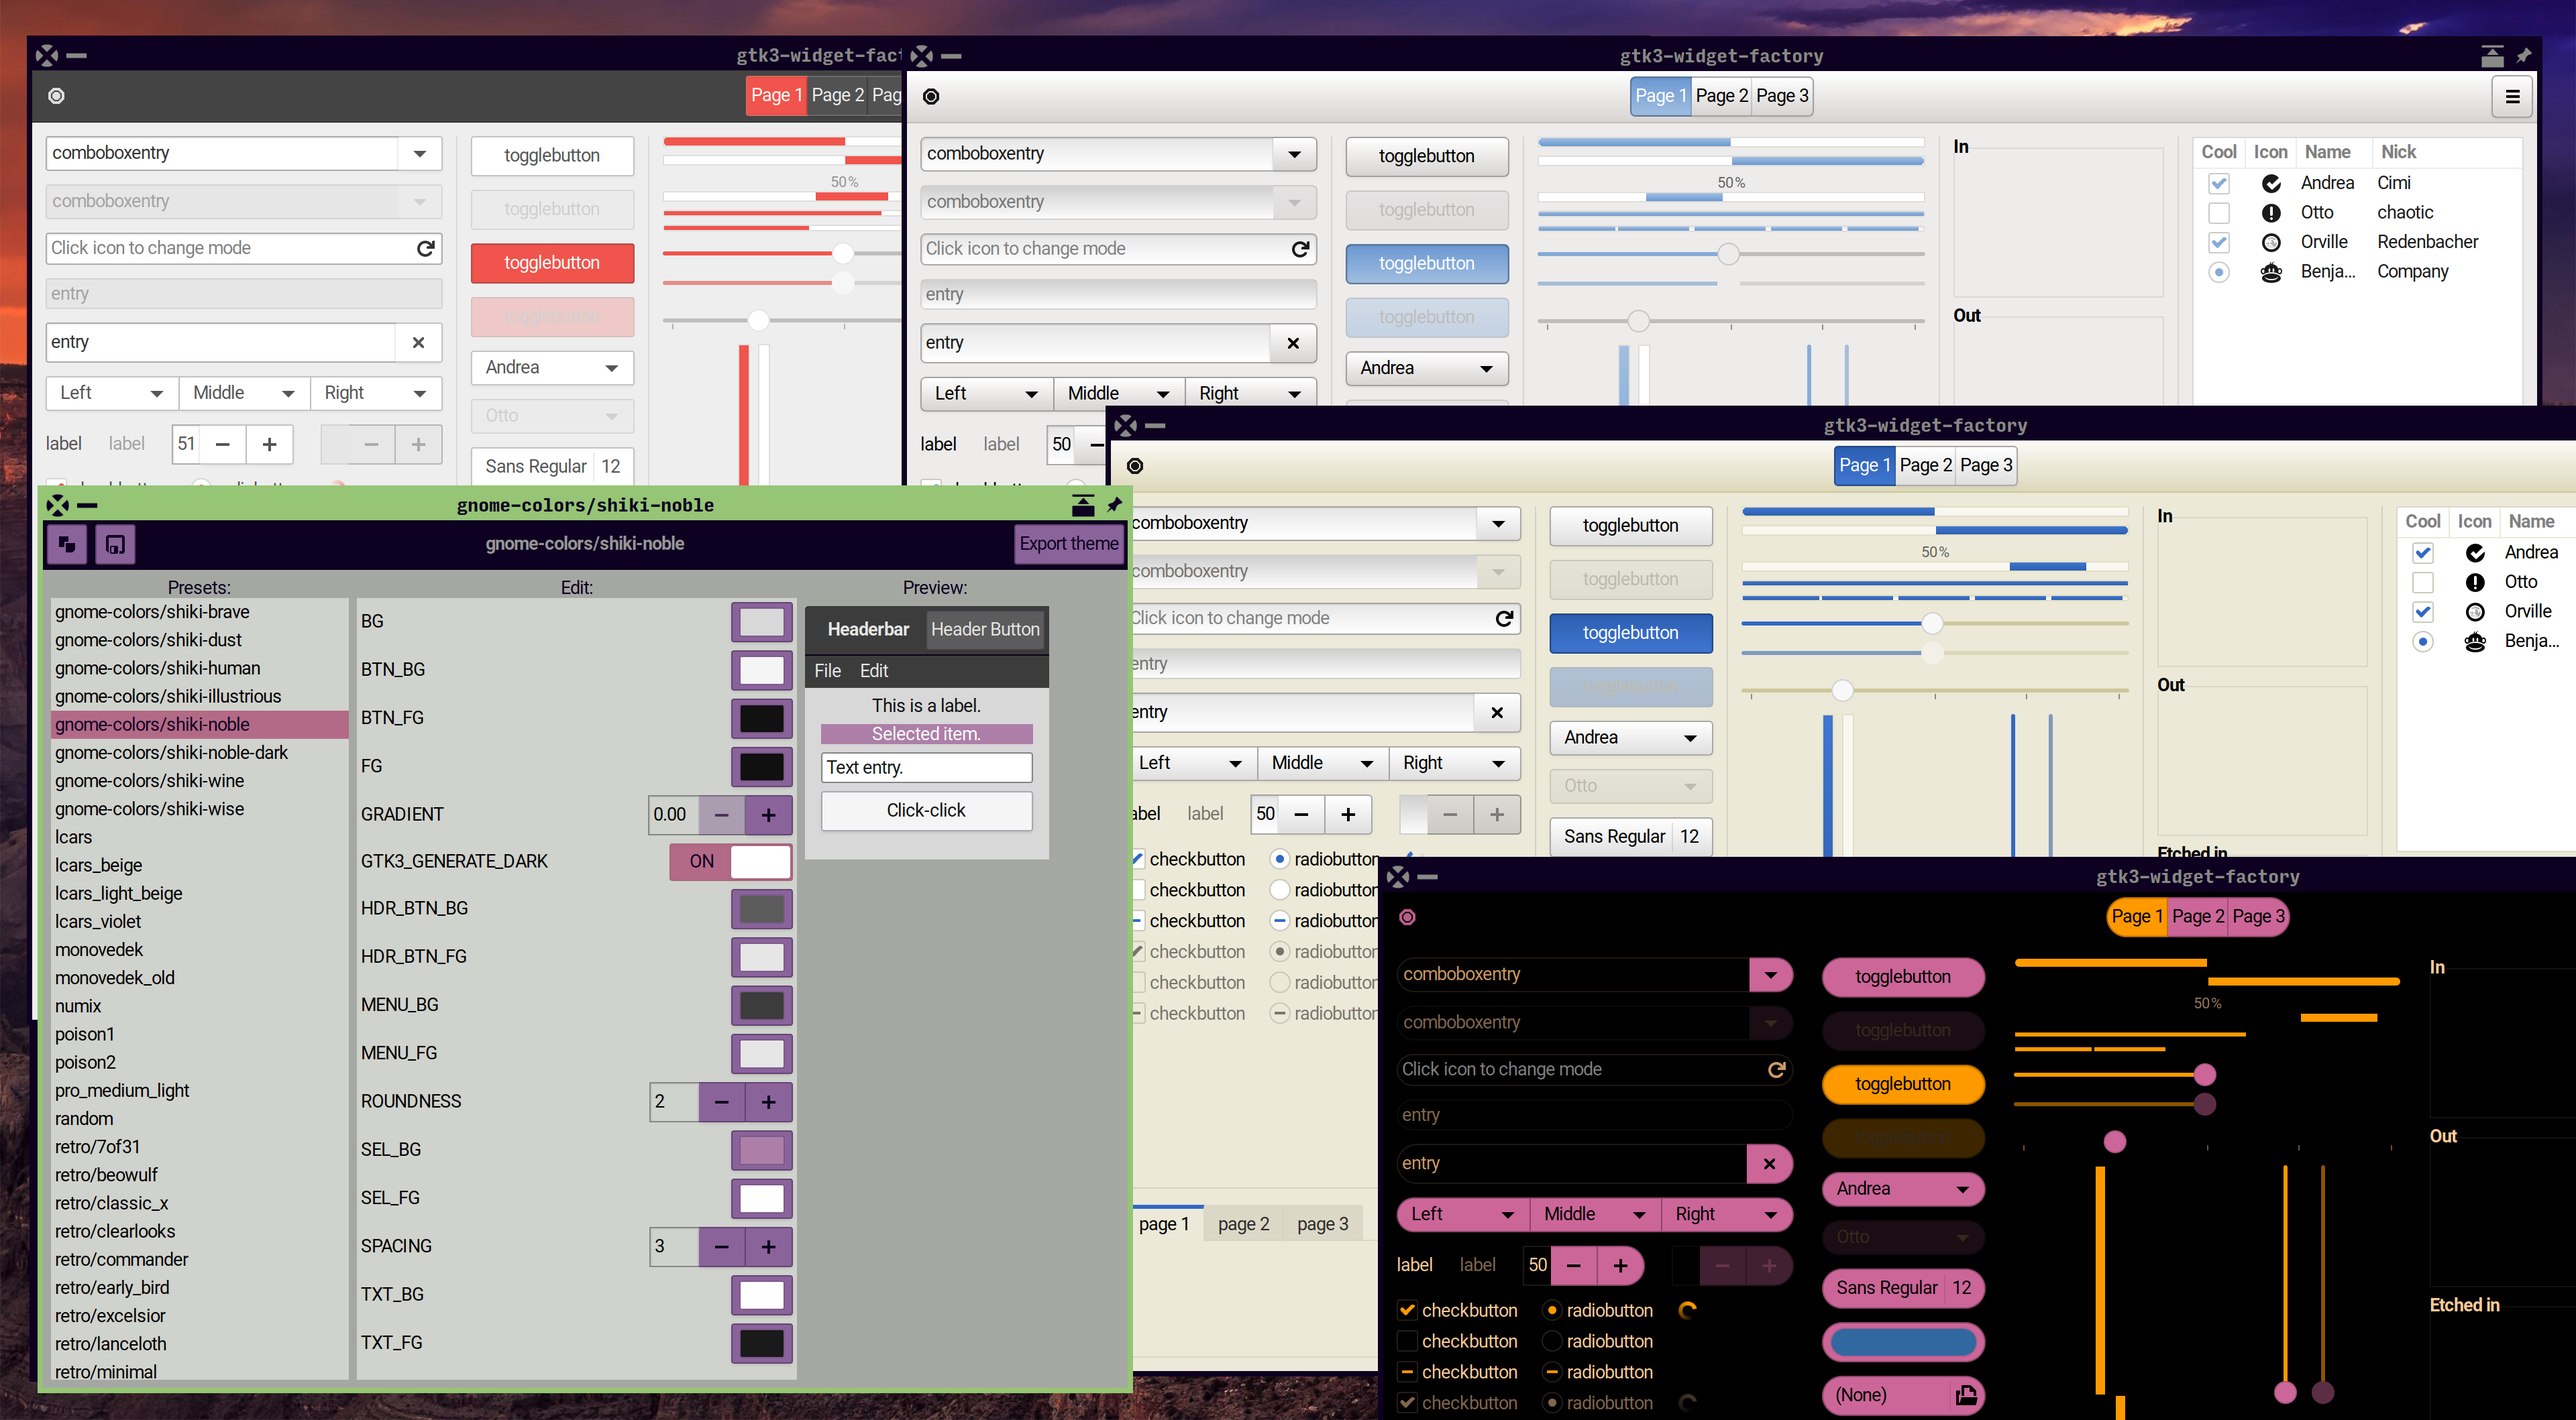
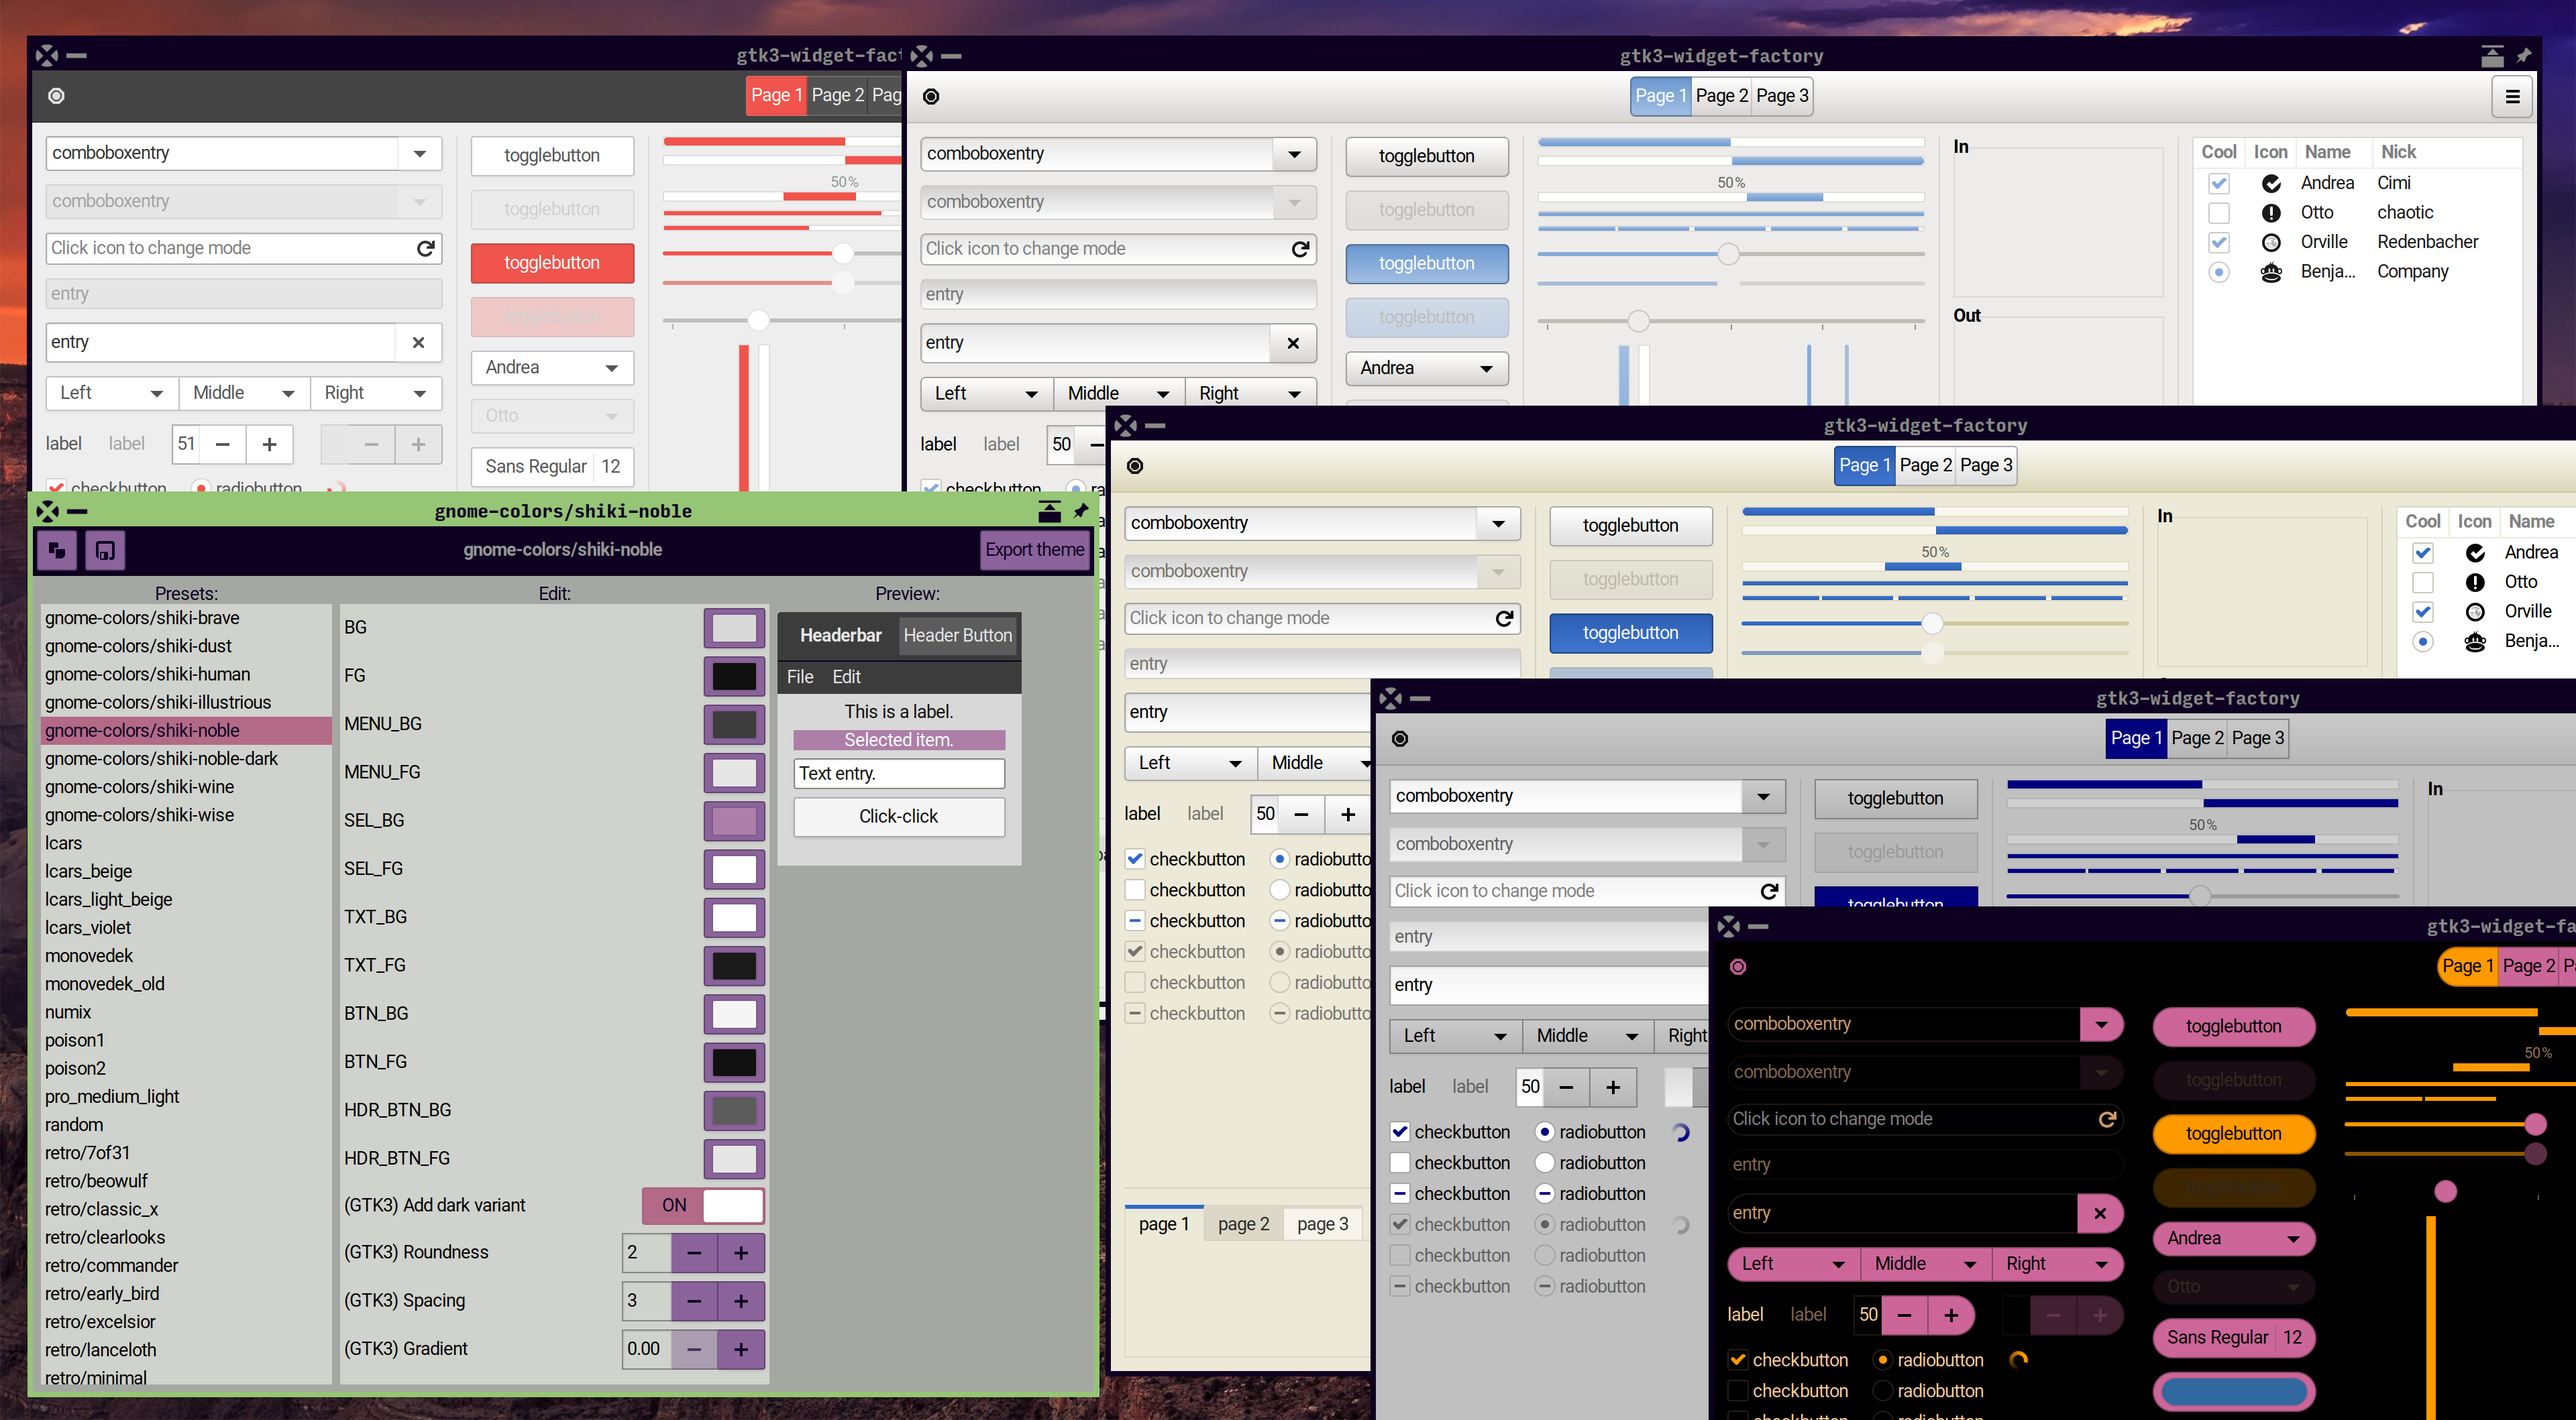
feat(gui): preview for roundness and gradient

diff --git a/gui/colors_list.py b/gui/colors_list.py
@@ -1,5 +1,7 @@
 from gi.repository import Gtk
-from .helpers import convert_theme_color_to_gdk, THEME_KEYS
+from .helpers import (
+    convert_theme_color_to_gdk, THEME_KEYS, convert_gdk_to_theme_color
+)
 
 
 class FloatListBoxRow(Gtk.ListBoxRow):
@@ -8,7 +10,7 @@ class FloatListBoxRow(Gtk.ListBoxRow):
         self.value = spinbutton.get_value()
         self.color_set_callback(self.key, self.value)
 
-    def __init__(self, key, value, color_set_callback):
+    def __init__(self, display_name, key, value, color_set_callback):
         super().__init__()
 
         self.color_set_callback = color_set_callback
@@ -17,10 +19,10 @@ class FloatListBoxRow(Gtk.ListBoxRow):
 
         hbox = Gtk.Box(orientation=Gtk.Orientation.HORIZONTAL, spacing=50)
         self.add(hbox)
-        label = Gtk.Label(key, xalign=0)
+        label = Gtk.Label(display_name, xalign=0)
         hbox.pack_start(label, True, True, 0)
 
-        adjustment = Gtk.Adjustment(value, 0.0, 20.0, 0.1, 10.0, 0)
+        adjustment = Gtk.Adjustment(value, 0.0, 4.0, 0.1, 10.0, 0)
         spinbutton = Gtk.SpinButton()
         spinbutton.set_digits(2)
         spinbutton.set_adjustment(adjustment)
@@ -38,7 +40,7 @@ class IntListBoxRow(Gtk.ListBoxRow):
         self.value = spinbutton.get_value_as_int()
         self.color_set_callback(self.key, self.value)
 
-    def __init__(self, key, value, color_set_callback):
+    def __init__(self, display_name, key, value, color_set_callback):
         super().__init__()
 
         self.color_set_callback = color_set_callback
@@ -47,7 +49,7 @@ class IntListBoxRow(Gtk.ListBoxRow):
 
         hbox = Gtk.Box(orientation=Gtk.Orientation.HORIZONTAL, spacing=50)
         self.add(hbox)
-        label = Gtk.Label(key, xalign=0)
+        label = Gtk.Label(display_name, xalign=0)
         hbox.pack_start(label, True, True, 0)
 
         adjustment = Gtk.Adjustment(value, 0, 20, 1, 10, 0)
@@ -67,7 +69,7 @@ class BoolListBoxRow(Gtk.ListBoxRow):
         self.value = switch.get_active()
         self.color_set_callback(self.key, self.value)
 
-    def __init__(self, key, value, color_set_callback):
+    def __init__(self, display_name, key, value, color_set_callback):
         super().__init__()
 
         self.color_set_callback = color_set_callback
@@ -76,7 +78,7 @@ class BoolListBoxRow(Gtk.ListBoxRow):
 
         hbox = Gtk.Box(orientation=Gtk.Orientation.HORIZONTAL, spacing=50)
         self.add(hbox)
-        label = Gtk.Label(key, xalign=0)
+        label = Gtk.Label(display_name, xalign=0)
         hbox.pack_start(label, True, True, 0)
 
         switch = Gtk.Switch()
@@ -88,14 +90,10 @@ class BoolListBoxRow(Gtk.ListBoxRow):
 class ColorListBoxRow(Gtk.ListBoxRow):
 
     def on_color_set(self, widget):
-        c = widget.get_rgba()
-        self.value = "".join([
-            "{0:02x}".format(int(n * 255))
-            for n in (c.red, c.green, c.blue)
-        ])
+        self.value = convert_gdk_to_theme_color(widget.get_rgba())
         self.color_set_callback(self.key, self.value)
 
-    def __init__(self, key, value, color_set_callback):
+    def __init__(self, display_name, key, value, color_set_callback):
         super().__init__()
 
         self.color_set_callback = color_set_callback
@@ -104,7 +102,7 @@ class ColorListBoxRow(Gtk.ListBoxRow):
 
         hbox = Gtk.Box(orientation=Gtk.Orientation.HORIZONTAL, spacing=50)
         self.add(hbox)
-        label = Gtk.Label(key, xalign=0)
+        label = Gtk.Label(display_name, xalign=0)
         hbox.pack_start(label, True, True, 0)
 
         color_button = Gtk.ColorButton.new_with_rgba(
@@ -132,22 +130,23 @@ class ThemeColorsList(Gtk.Box):
         else:
             for key_obj in THEME_KEYS:
                 key = key_obj['key']
+                display_name = key_obj.get('display_name', key)
                 row = None
                 if key_obj['type'] == 'color':
                     row = ColorListBoxRow(
-                        key, self.theme[key], self.color_edited
+                        display_name, key, self.theme[key], self.color_edited
                     )
                 elif key_obj['type'] == 'bool':
                     row = BoolListBoxRow(
-                        key, self.theme[key], self.color_edited
+                        display_name, key, self.theme[key], self.color_edited
                     )
                 elif key_obj['type'] == 'int':
                     row = IntListBoxRow(
-                        key, self.theme[key], self.color_edited
+                        display_name, key, self.theme[key], self.color_edited
                     )
                 elif key_obj['type'] == 'float':
                     row = FloatListBoxRow(
-                        key, self.theme[key], self.color_edited
+                        display_name, key, self.theme[key], self.color_edited
                     )
                 if row:
                     self.listbox.add(row)
@@ -163,10 +162,6 @@ class ThemeColorsList(Gtk.Box):
         self.listbox = Gtk.ListBox()
         self.listbox.set_selection_mode(Gtk.SelectionMode.NONE)
 
-        def sort_func(row_1, row_2, data, notify_destroy):
-            return row_1.key.lower() > row_2.key.lower()
-
-        self.listbox.set_sort_func(sort_func, None, False)
         scrolled.add(self.listbox)
 
         theme_edit_label = Gtk.Label()

diff --git a/gui/preview.py b/gui/preview.py
@@ -1,5 +1,9 @@
-from .helpers import convert_theme_color_to_gdk, THEME_KEYS
 from gi.repository import Gtk
+
+from .helpers import (
+    convert_theme_color_to_gdk,
+    THEME_KEYS,
+)
 
 
 class ThemePreview(Gtk.Grid):
@@ -39,6 +43,53 @@ class ThemePreview(Gtk.Grid):
                             converted["HDR_BTN_FG"])
         self.override_color(self.headerbar_button, self.BG,
                             converted["HDR_BTN_BG"])
+
+        gradient = colorscheme['GRADIENT']
+        for widget, color in zip(
+            [self.button, self.headerbar_button, self.entry],
+            [
+                colorscheme["BTN_BG"],
+                colorscheme["HDR_BTN_BG"],
+                colorscheme["TXT_BG"]
+            ]
+        ):
+            css_provider_gradient = Gtk.CssProvider()
+            css_provider_gradient.load_from_data((
+                gradient > 0 and """
+                * {{
+                    background-image: linear-gradient(to bottom,
+                        shade(#{color}, {amount1}),
+                        shade(#{color}, {amount2})
+                    );
+                }}
+                """.format(
+                    color=color,
+                    amount1=1 - gradient / 2,
+                    amount2=1 + gradient * 2
+                ) or """
+                * {
+                    background-image: none;
+                }
+                """
+            ).encode('ascii'))
+            Gtk.StyleContext.add_provider(
+                widget.get_style_context(),
+                css_provider_gradient,
+                Gtk.STYLE_PROVIDER_PRIORITY_APPLICATION
+            )
+
+        css_provider_roundness = Gtk.CssProvider()
+        css_provider_roundness.load_from_data("""
+            * {{
+                border-radius: {roundness}px;
+            }}
+        """.format(roundness=colorscheme['ROUNDNESS']).encode('ascii'))
+        for widget in [self.button, self.headerbar_button, self.entry]:
+            Gtk.StyleContext.add_provider(
+                widget.get_style_context(),
+                css_provider_roundness,
+                Gtk.STYLE_PROVIDER_PRIORITY_APPLICATION
+            )
 
     def __init__(self):
         super().__init__(row_spacing=6, column_spacing=6)

diff --git a/gui/helpers.py b/gui/helpers.py
@@ -70,21 +70,25 @@ THEME_KEYS = [
         'key': 'GTK3_GENERATE_DARK',
         'type': 'bool',
         'fallback_value': True,
+        'display_name': '(GTK3) Add dark variant'
     },
     {
         'key': 'ROUNDNESS',
         'type': 'int',
         'fallback_value': 2,
+        'display_name': '(GTK3) Roundness'
     },
     {
         'key': 'SPACING',
         'type': 'int',
         'fallback_value': 3,
+        'display_name': '(GTK3) Spacing'
     },
     {
         'key': 'GRADIENT',
         'type': 'float',
         'fallback_value': 0.0,
+        'display_name': '(GTK3) Gradient'
     },
 ]
 
@@ -122,6 +126,13 @@ def convert_theme_color_to_gdk(theme_color):
     gdk_color = Gdk.RGBA()
     gdk_color.parse("#" + theme_color)
     return gdk_color
+
+
+def convert_gdk_to_theme_color(gdk_color):
+    return "".join([
+        "{0:02x}".format(int(n * 255))
+        for n in (gdk_color.red, gdk_color.green, gdk_color.blue)
+    ])
 
 
 def resolve_color_links(colorscheme):
